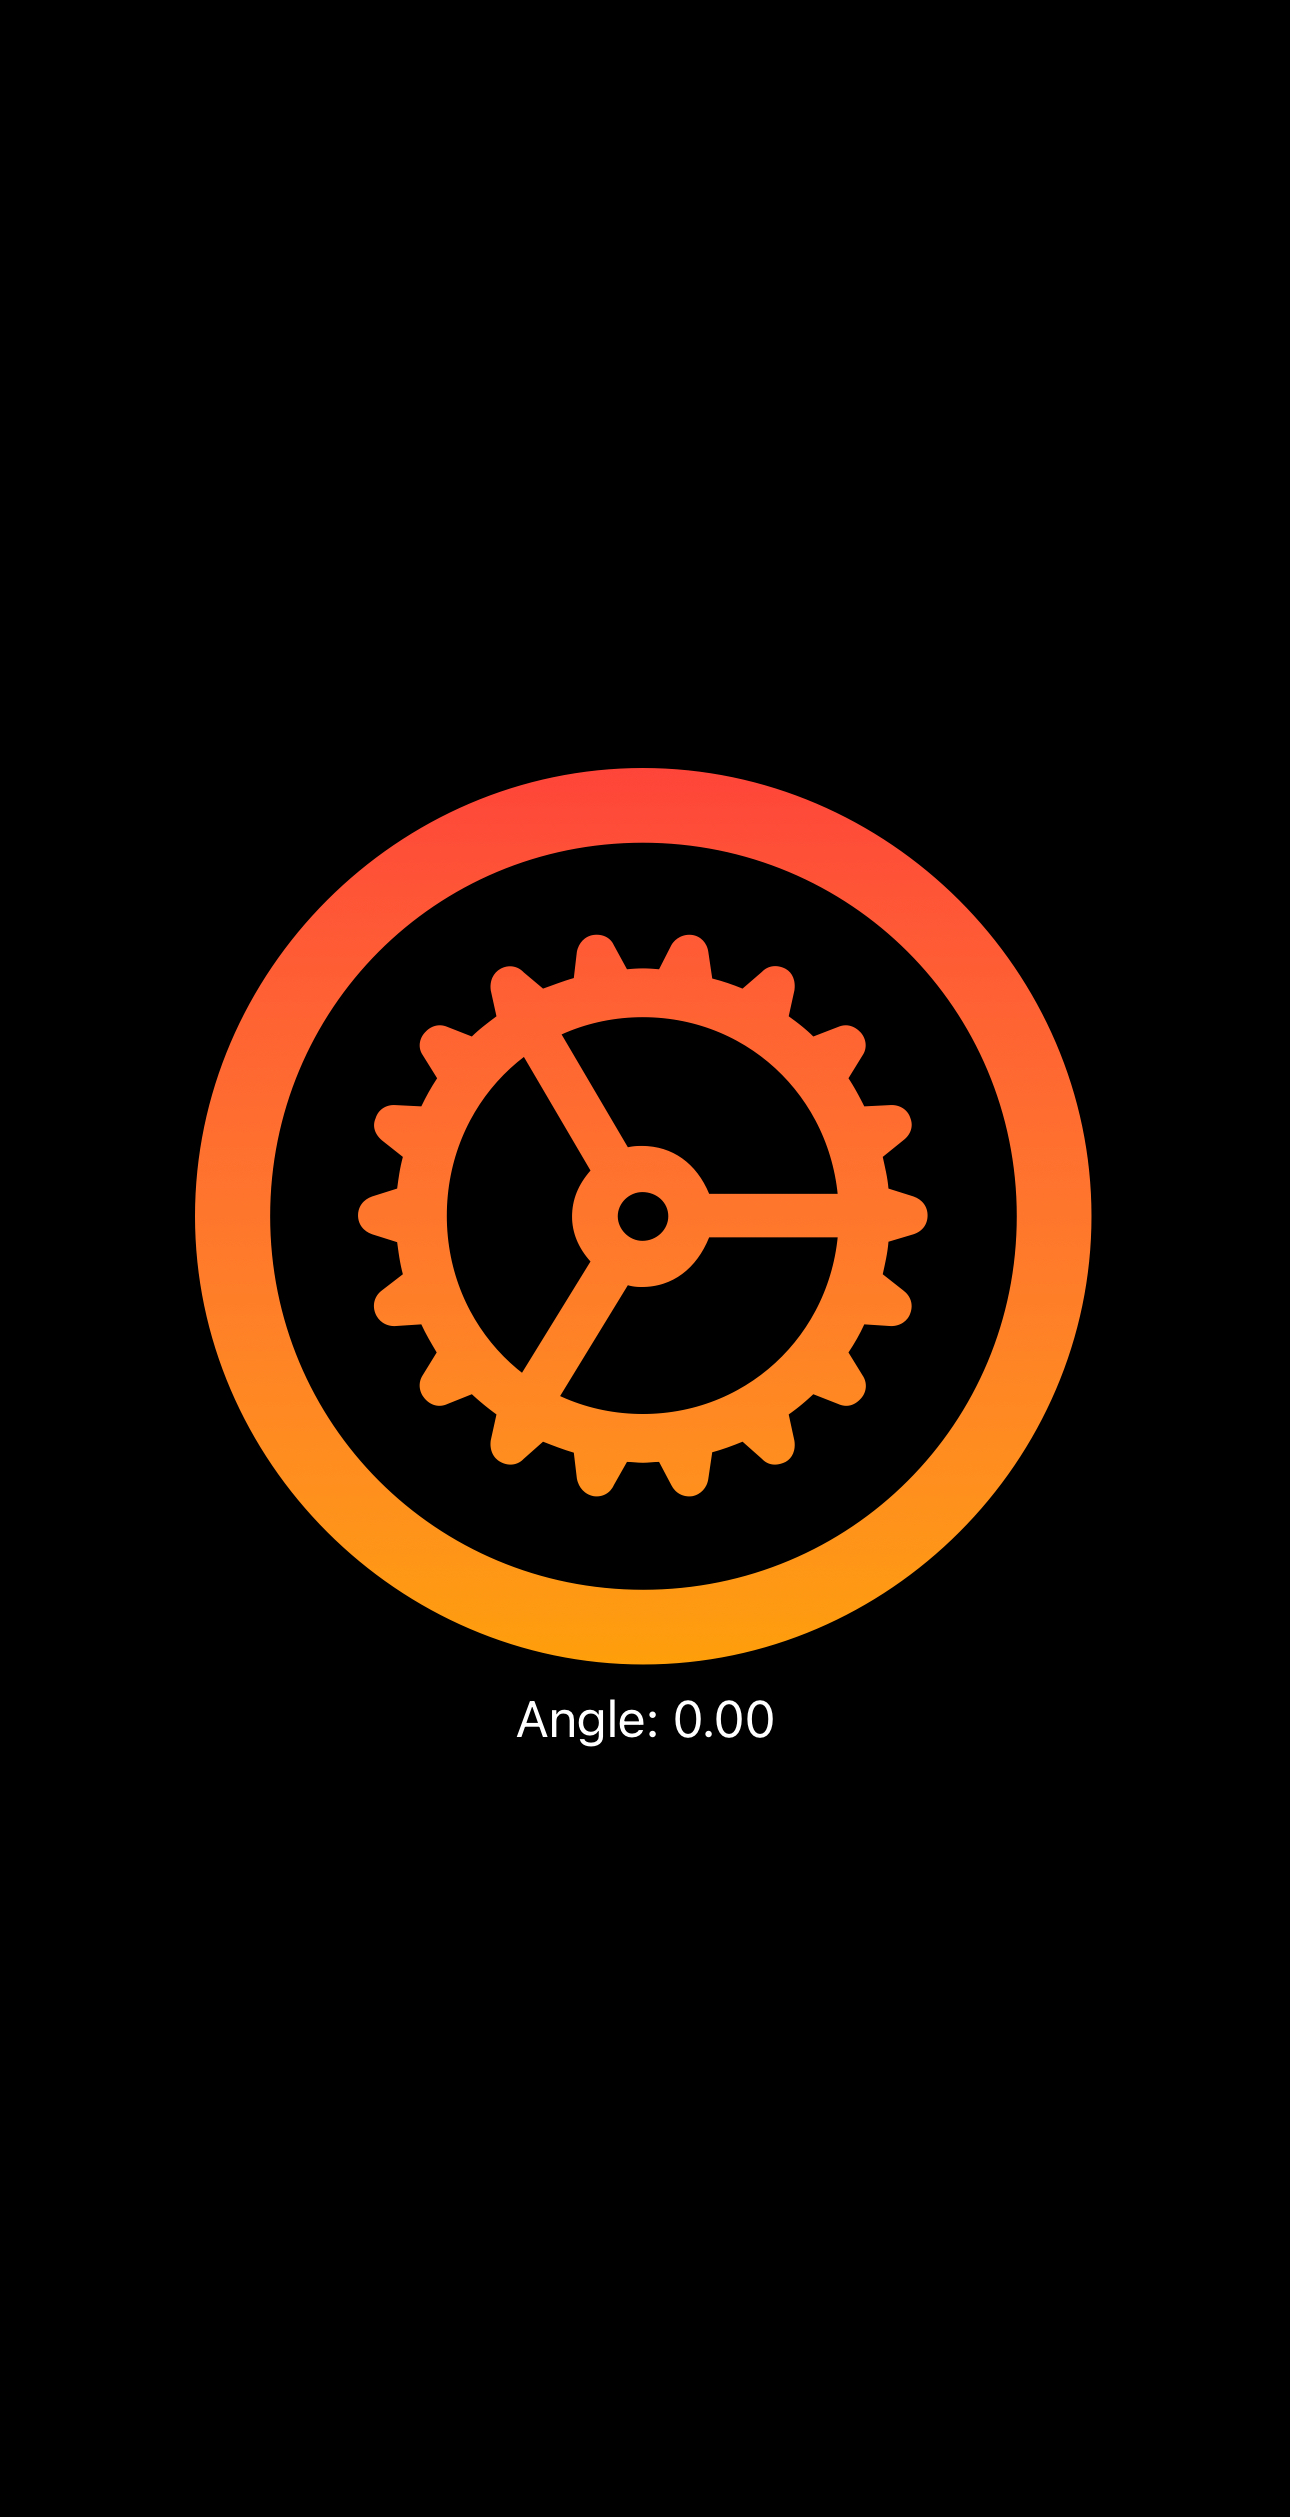
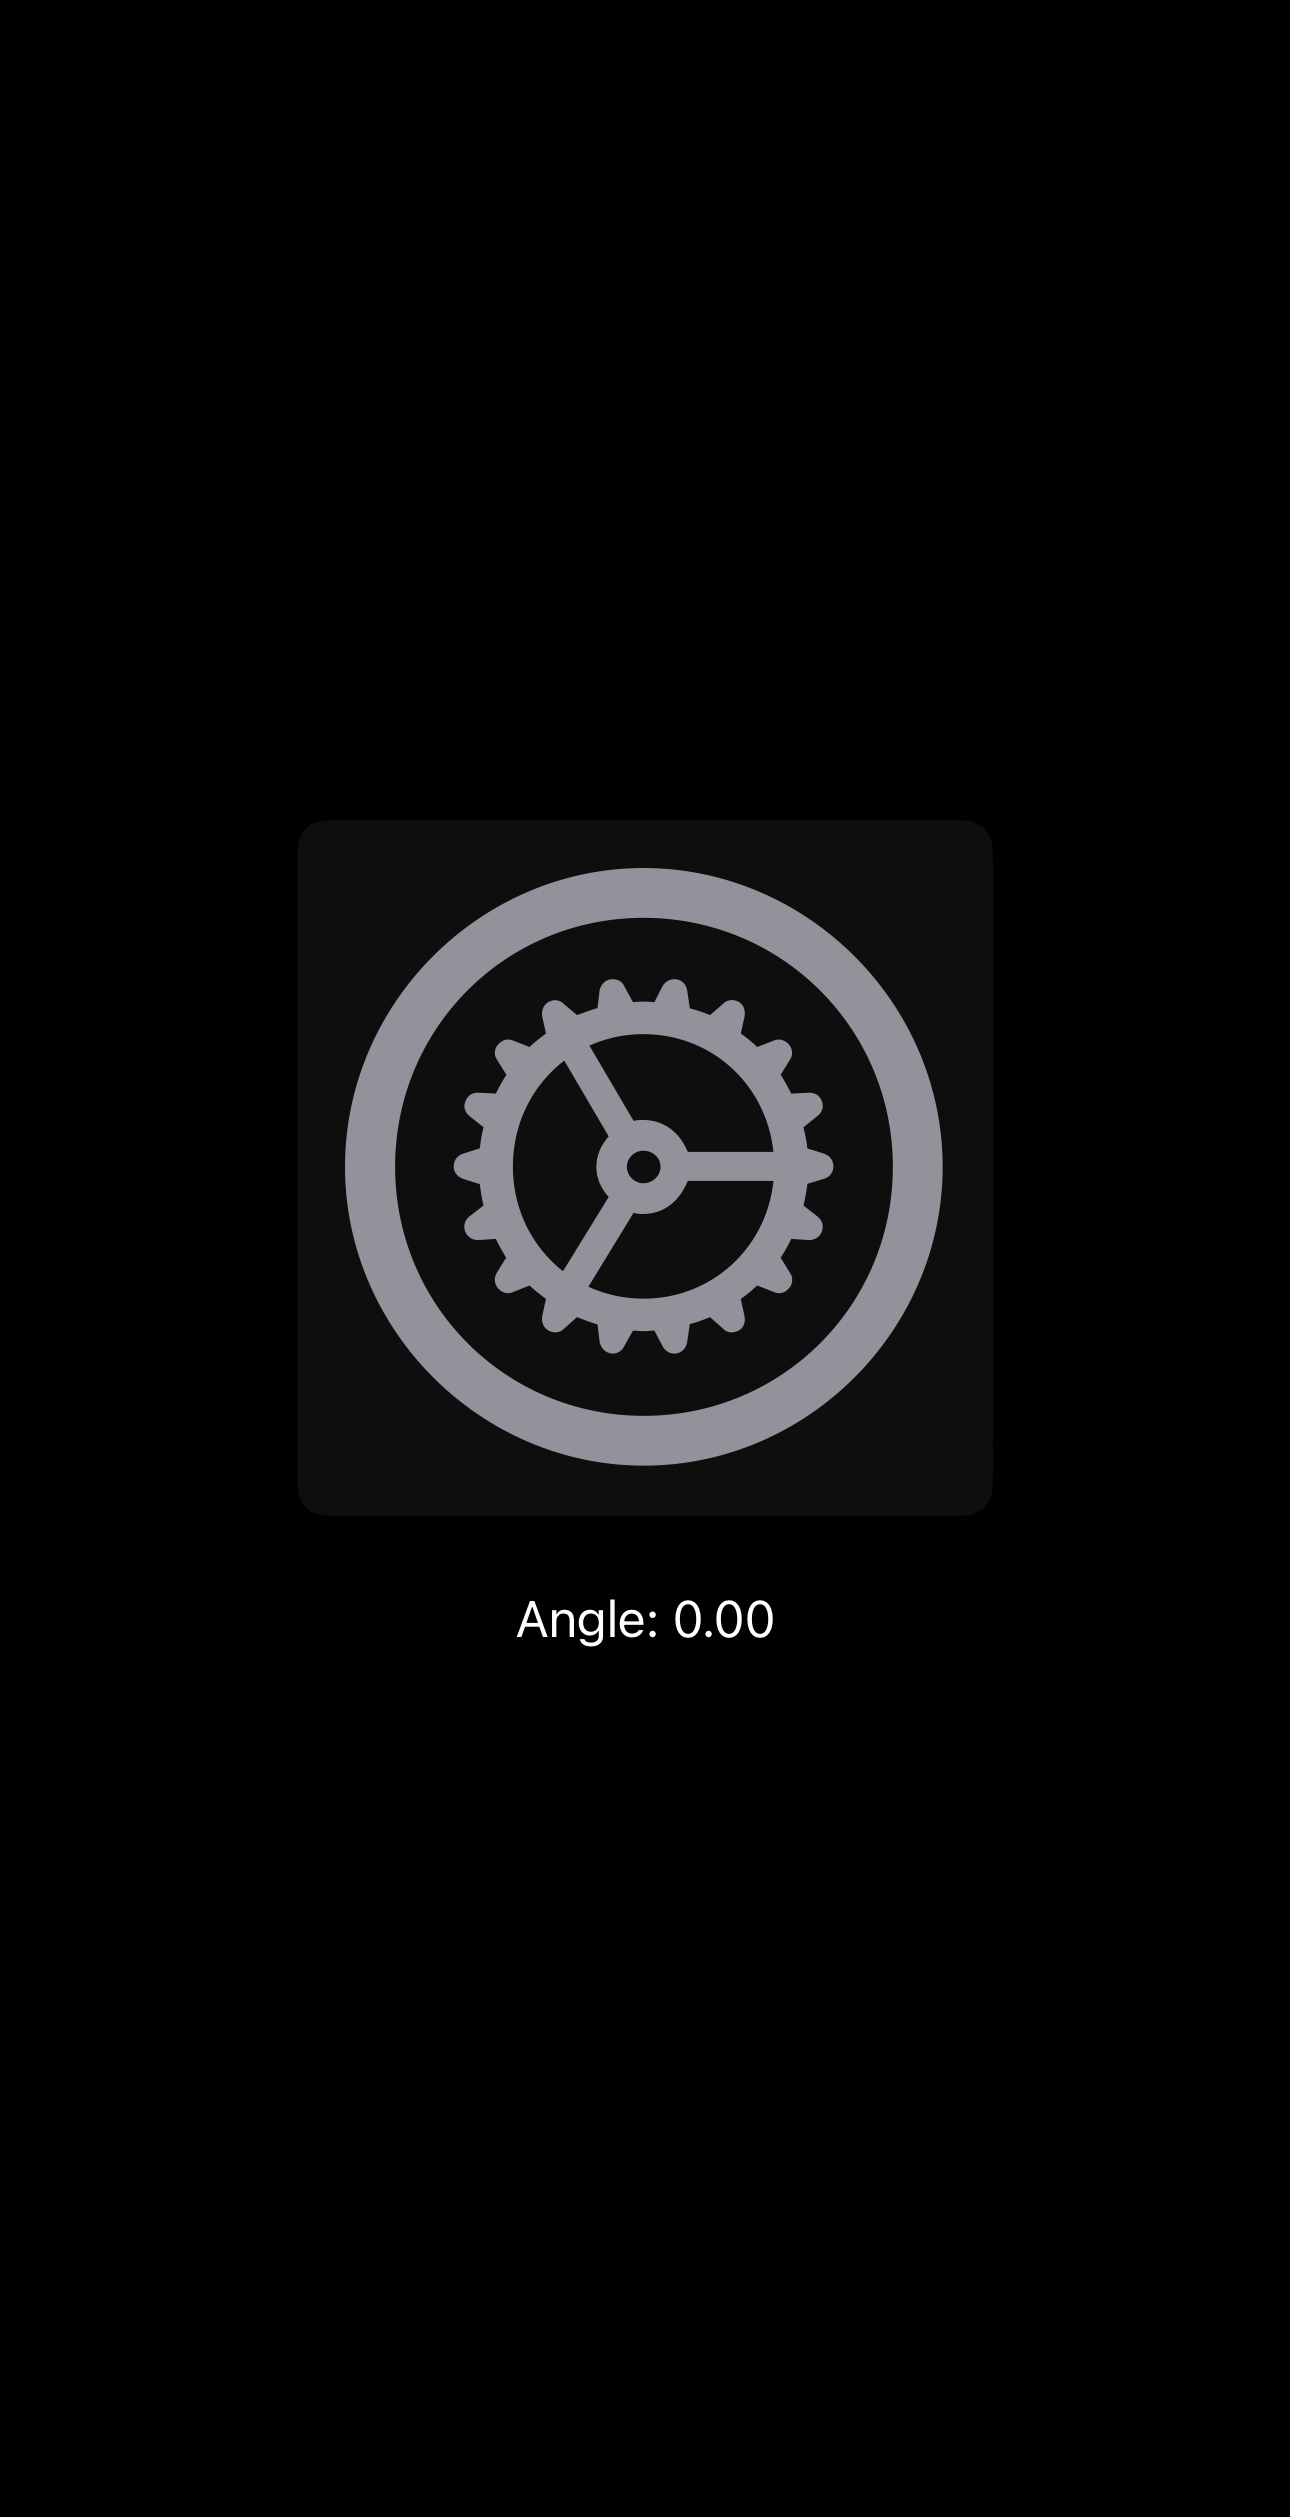
update media

Changed region(s): [[0.124, 0.2789, 0.8682, 0.7128]]

diff --git a/Sources/SIMDTools/SIMDTools.docc/Resources/code-files/01-creating-code-02-08.swift b/Sources/SIMDTools/SIMDTools.docc/Resources/code-files/01-creating-code-02-08.swift
@@ -2,7 +2,7 @@ import SwiftUI
 import SIMDTools
 
 struct ContentView: View {
-    private let imageSize: Float32 = 300
+    private let imageSize: Float32 = 200
     @State private var angleInDegrees: Float32 = 0
 
     var body: some View {
@@ -13,15 +13,17 @@ struct ContentView: View {
                     width: CGFloat(imageSize),
                     height: CGFloat(imageSize)
                 )
-                .foregroundStyle(
-                    .linearGradient(
-                        colors: [.red, .orange],
-                        startPoint: .top,
-                        endPoint: .bottom
-                    )
-                )
+                .foregroundStyle(Color.secondary)
+                .padding()
+                .background(Color.secondary.opacity(0.1))
+                .cornerRadius(10)
             Text(String(format: "Angle: %.2f", angleInDegrees))
-            Slider(value: $angleInDegrees, in: -180...180)
+                .padding()
+            Slider(value: $angleInDegrees, in: 0...360)
+                .frame(width: CGFloat(imageSize))
+                .padding()
+                .background(Color.secondary.opacity(0.1))
+                .cornerRadius(10)
         }
         .padding()
     }

diff --git a/Sources/SIMDTools/SIMDTools.docc/Resources/code-files/01-creating-code-04-06.swift b/Sources/SIMDTools/SIMDTools.docc/Resources/code-files/01-creating-code-04-06.swift
@@ -13,19 +13,21 @@ struct ContentView: View {
                     width: CGFloat(imageSize),
                     height: CGFloat(imageSize)
                 )
-                .foregroundStyle(
-                    .linearGradient(
-                        colors: [.red, .orange],
-                        startPoint: .top,
-                        endPoint: .bottom
-                    )
-                )
+                .foregroundStyle(Color.secondary)
                 .layerEffect(
                     ShaderLibrary.applyTransform(.floatArray(calculateTransform())),
                     maxSampleOffset: .zero
                 )
+                .padding()
+                .background(Color.secondary.opacity(0.1))
+                .cornerRadius(10)
             Text(String(format: "Angle: %.2f", angleInDegrees))
-            Slider(value: $angleInDegrees, in: -180...180)
+                .padding()
+            Slider(value: $angleInDegrees, in: 0...360)
+                .frame(width: CGFloat(imageSize))
+                .padding()
+                .background(Color.secondary.opacity(0.1))
+                .cornerRadius(10)
         }
         .padding()
     }

diff --git a/Sources/SIMDTools/SIMDTools.docc/Resources/code-files/01-creating-code-04-01.swift b/Sources/SIMDTools/SIMDTools.docc/Resources/code-files/01-creating-code-04-01.swift
@@ -13,15 +13,17 @@ struct ContentView: View {
                     width: CGFloat(imageSize),
                     height: CGFloat(imageSize)
                 )
-                .foregroundStyle(
-                    .linearGradient(
-                        colors: [.red, .orange],
-                        startPoint: .top,
-                        endPoint: .bottom
-                    )
-                )
+                .foregroundStyle(Color.secondary)
+                .padding()
+                .background(Color.secondary.opacity(0.1))
+                .cornerRadius(10)
             Text(String(format: "Angle: %.2f", angleInDegrees))
-            Slider(value: $angleInDegrees, in: -180...180)
+                .padding()
+            Slider(value: $angleInDegrees, in: 0...360)
+                .frame(width: CGFloat(imageSize))
+                .padding()
+                .background(Color.secondary.opacity(0.1))
+                .cornerRadius(10)
         }
         .padding()
     }

diff --git a/Sources/SIMDTools/SIMDTools.docc/Resources/code-files/01-creating-code-04-02.swift b/Sources/SIMDTools/SIMDTools.docc/Resources/code-files/01-creating-code-04-02.swift
@@ -13,15 +13,17 @@ struct ContentView: View {
                     width: CGFloat(imageSize),
                     height: CGFloat(imageSize)
                 )
-                .foregroundStyle(
-                    .linearGradient(
-                        colors: [.red, .orange],
-                        startPoint: .top,
-                        endPoint: .bottom
-                    )
-                )
+                .foregroundStyle(Color.secondary)
+                .padding()
+                .background(Color.secondary.opacity(0.1))
+                .cornerRadius(10)
             Text(String(format: "Angle: %.2f", angleInDegrees))
-            Slider(value: $angleInDegrees, in: -180...180)
+                .padding()
+            Slider(value: $angleInDegrees, in: 0...360)
+                .frame(width: CGFloat(imageSize))
+                .padding()
+                .background(Color.secondary.opacity(0.1))
+                .cornerRadius(10)
         }
         .padding()
     }

diff --git a/Sources/SIMDTools/SIMDTools.docc/Resources/code-files/01-creating-code-04-03.swift b/Sources/SIMDTools/SIMDTools.docc/Resources/code-files/01-creating-code-04-03.swift
@@ -13,15 +13,17 @@ struct ContentView: View {
                     width: CGFloat(imageSize),
                     height: CGFloat(imageSize)
                 )
-                .foregroundStyle(
-                    .linearGradient(
-                        colors: [.red, .orange],
-                        startPoint: .top,
-                        endPoint: .bottom
-                    )
-                )
+                .foregroundStyle(Color.secondary)
+                .padding()
+                .background(Color.secondary.opacity(0.1))
+                .cornerRadius(10)
             Text(String(format: "Angle: %.2f", angleInDegrees))
-            Slider(value: $angleInDegrees, in: -180...180)
+                .padding()
+            Slider(value: $angleInDegrees, in: 0...360)
+                .frame(width: CGFloat(imageSize))
+                .padding()
+                .background(Color.secondary.opacity(0.1))
+                .cornerRadius(10)
         }
         .padding()
     }

diff --git a/Sources/SIMDTools/SIMDTools.docc/Resources/code-files/01-creating-code-04-04.swift b/Sources/SIMDTools/SIMDTools.docc/Resources/code-files/01-creating-code-04-04.swift
@@ -13,15 +13,17 @@ struct ContentView: View {
                     width: CGFloat(imageSize),
                     height: CGFloat(imageSize)
                 )
-                .foregroundStyle(
-                    .linearGradient(
-                        colors: [.red, .orange],
-                        startPoint: .top,
-                        endPoint: .bottom
-                    )
-                )
+                .foregroundStyle(Color.secondary)
+                .padding()
+                .background(Color.secondary.opacity(0.1))
+                .cornerRadius(10)
             Text(String(format: "Angle: %.2f", angleInDegrees))
-            Slider(value: $angleInDegrees, in: -180...180)
+                .padding()
+            Slider(value: $angleInDegrees, in: 0...360)
+                .frame(width: CGFloat(imageSize))
+                .padding()
+                .background(Color.secondary.opacity(0.1))
+                .cornerRadius(10)
         }
         .padding()
     }

diff --git a/Sources/SIMDTools/SIMDTools.docc/Resources/code-files/01-creating-code-04-05.swift b/Sources/SIMDTools/SIMDTools.docc/Resources/code-files/01-creating-code-04-05.swift
@@ -13,15 +13,17 @@ struct ContentView: View {
                     width: CGFloat(imageSize),
                     height: CGFloat(imageSize)
                 )
-                .foregroundStyle(
-                    .linearGradient(
-                        colors: [.red, .orange],
-                        startPoint: .top,
-                        endPoint: .bottom
-                    )
-                )
+                .foregroundStyle(Color.secondary)
+                .padding()
+                .background(Color.secondary.opacity(0.1))
+                .cornerRadius(10)
             Text(String(format: "Angle: %.2f", angleInDegrees))
-            Slider(value: $angleInDegrees, in: -180...180)
+                .padding()
+            Slider(value: $angleInDegrees, in: 0...360)
+                .frame(width: CGFloat(imageSize))
+                .padding()
+                .background(Color.secondary.opacity(0.1))
+                .cornerRadius(10)
         }
         .padding()
     }

diff --git a/Sources/SIMDTools/SIMDTools.docc/Resources/code-files/01-creating-code-02-07.swift b/Sources/SIMDTools/SIMDTools.docc/Resources/code-files/01-creating-code-02-07.swift
@@ -2,7 +2,7 @@ import SwiftUI
 import SIMDTools
 
 struct ContentView: View {
-    private let imageSize: Float32 = 300
+    private let imageSize: Float32 = 200
     @State private var angleInDegrees: Float32 = 0
 
     var body: some View {
@@ -13,14 +13,12 @@ struct ContentView: View {
                     width: CGFloat(imageSize),
                     height: CGFloat(imageSize)
                 )
-                .foregroundStyle(
-                    .linearGradient(
-                        colors: [.red, .orange],
-                        startPoint: .top,
-                        endPoint: .bottom
-                    )
-                )
+                .foregroundStyle(Color.secondary)
+                .padding()
+                .background(Color.secondary.opacity(0.1))
+                .cornerRadius(10)
             Text(String(format: "Angle: %.2f", angleInDegrees))
+                .padding()
         }
         .padding()
     }

diff --git a/Sources/SIMDTools/SIMDTools.docc/Resources/code-files/01-creating-code-02-06.swift b/Sources/SIMDTools/SIMDTools.docc/Resources/code-files/01-creating-code-02-06.swift
@@ -2,8 +2,8 @@ import SwiftUI
 import SIMDTools
 
 struct ContentView: View {
-    private let imageSize: Float32 = 300
-    
+    private let imageSize: Float32 = 200
+
     var body: some View {
         VStack {
             Image(systemName: "gear.circle")
@@ -12,13 +12,10 @@ struct ContentView: View {
                     width: CGFloat(imageSize),
                     height: CGFloat(imageSize)
                 )
-                .foregroundStyle(
-                    .linearGradient(
-                        colors: [.red, .orange],
-                        startPoint: .top,
-                        endPoint: .bottom
-                    )
-                )
+                .foregroundStyle(Color.secondary)
+                .padding()
+                .background(Color.secondary.opacity(0.1))
+                .cornerRadius(10)
         }
         .padding()
     }

diff --git a/Sources/SIMDTools/SIMDTools.docc/Resources/code-files/01-creating-code-02-05.swift b/Sources/SIMDTools/SIMDTools.docc/Resources/code-files/01-creating-code-02-05.swift
@@ -2,7 +2,7 @@ import SwiftUI
 import SIMDTools
 
 struct ContentView: View {
-    private let imageSize: Float32 = 300
+    private let imageSize: Float32 = 200
     
     var body: some View {
         VStack {
